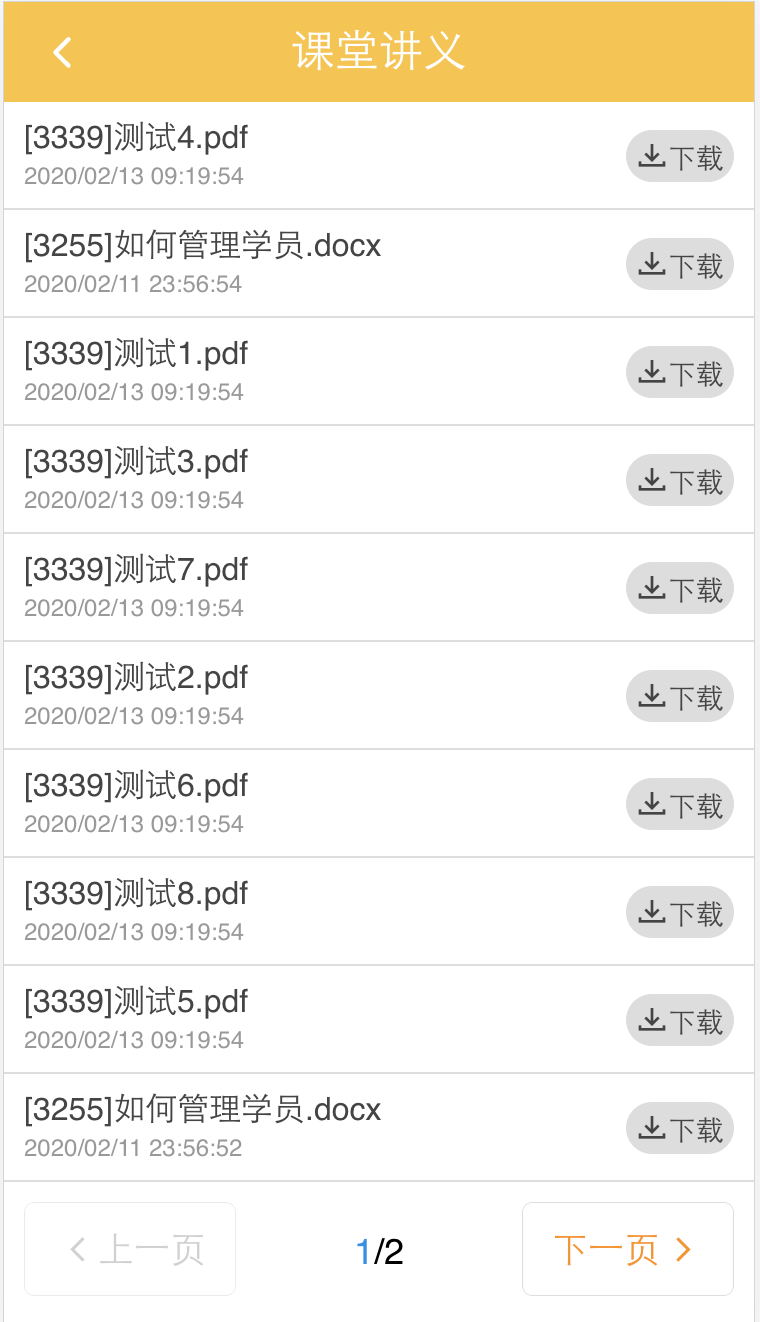
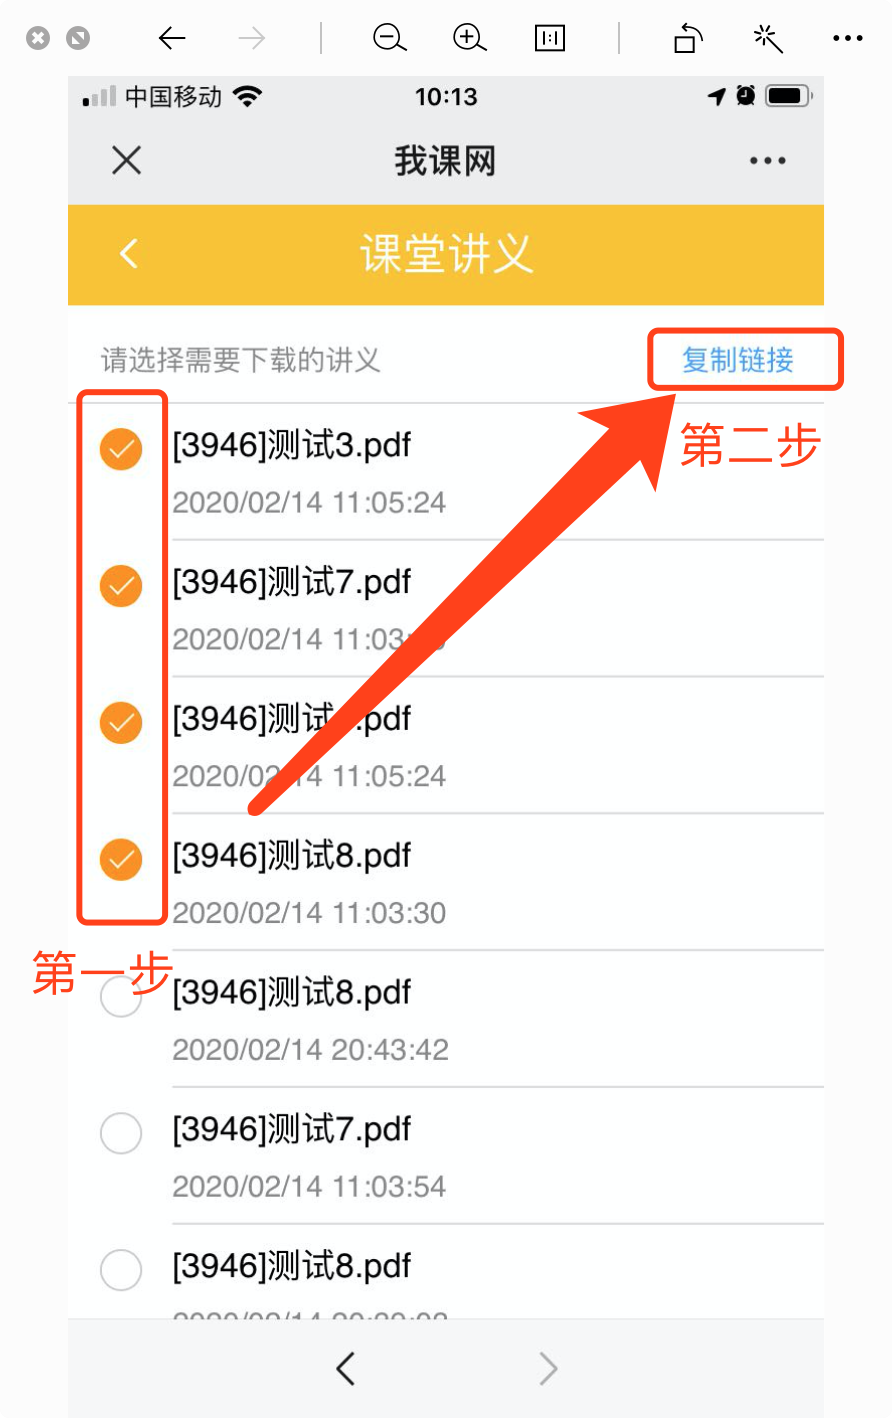
修改讲义帮助；增加查看学员的互动课堂账号

diff --git a/personal_center.md b/personal_center.md
@@ -3,13 +3,15 @@
 ## 如何获取课堂讲义
 1. 进入公众号[我课拼班]的[个人中心]，找到[课堂讲义]
 ![课堂讲义](/images/doc-1.jpeg)
-2. 进入[课堂讲义]列表页，最新更新的讲义在最前面。如下图所示
+2. 进入[课堂讲义]列表页，最新更新的讲义在最前面。按下图提示操作：
 ![课堂讲义](/images/doc-2.png)
-3. 选择你要的讲义，点击[下载]按钮，进入下载提示页面，如下图所示
-![课堂讲义](/images/doc-3.png)
-4. 点击[复制链接]操作后，你可以打开手机浏览器和电脑浏览器，将讲义地址[粘贴]到浏览器中直接打开，还可使用浏览器的[分享]功能保存到本地。
+3. 点击[复制链接]操作后，你可以将讲义下载地址[粘贴]到电脑微信，点击链接即可下载文件。
 
 ## 如何查看课堂编号
 课堂编号仅适用于在线互动课程。
-每节的课堂编号都不一样，我课至少会在上课前一天更新课堂编号，你可以到[我的]-[我的课表]查看。
+每节的课堂编号都不一样，我课至少会在上课前一天更新课堂编号，你可以到[我的]-[个人中心]-[我的课表]查看。
 ![课堂讲义](/images/live-class-id.png)
+
+## 如何查看学员的互动课堂账号
+你可以到[我的]-[个人中心]-[学员管理]查看，所有已开通互动课堂权限的学员，学号就是账号，学号的下方显示密码。
+![课堂讲义](/images/live-student.jpeg)
